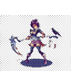
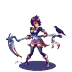
feat(guardianes): La Herencia sprite PNG recién eliminado + animación walk/attack
- Nuevo sprite oficial de La Herencia: fondo eliminado por keying
  negro RGB(0,0,0) de removebg → PNG transparente para Phaser.
- Frames walk_0/1/2 y atk_0/1 extraídos por transformación afín
  (scythe se inclina/se eleva durante el tajo).
- Integrado en Phaser: load/image + anims create, walk loop and
  attack latch 260ms (inactivo cuando termina).

diff --git a/frontend/inkaquest-web/src/app/features/guardianes/combate-scene.ts b/frontend/inkaquest-web/src/app/features/guardianes/combate-scene.ts
@@ -184,6 +184,8 @@ export class CombateScene extends Phaser.Scene {
       this.load.image('sasuke_atk_' + i, `assets/guardianes/walk/sasuke_atk_${i}.png`);
       this.load.image('natalia_walk_' + i, `assets/guardianes/walk/natalia_walk_${i}.png`);
       this.load.image('natalia_atk_' + i, `assets/guardianes/walk/natalia_atk_${i}.png`);
+      this.load.image('scythe_walk_' + i, `assets/guardianes/walk/scythe_walk_${i}.png`);
+      this.load.image('scythe_atk_' + i, `assets/guardianes/walk/scythe_atk_${i}.png`);
     }
   }
 
@@ -253,6 +255,22 @@ export class CombateScene extends Phaser.Scene {
       anims.create({
         key: 'natalia_atk',
         frames: [0, 1].map((i) => ({ key: 'natalia_atk_' + i })),
+        frameRate: 10,
+        repeat: 0,
+      });
+    }
+    if (this.textures.exists('scythe_walk_0') && !anims.exists('scythe_walk')) {
+      anims.create({
+        key: 'scythe_walk',
+        frames: [0, 1, 2].map((i) => ({ key: 'scythe_walk_' + i })),
+        frameRate: 8,
+        repeat: -1,
+      });
+    }
+    if (this.textures.exists('scythe_atk_0') && !anims.exists('scythe_atk')) {
+      anims.create({
+        key: 'scythe_atk',
+        frames: [0, 1].map((i) => ({ key: 'scythe_atk_' + i })),
         frameRate: 10,
         repeat: 0,
       });
@@ -650,6 +668,7 @@ export class CombateScene extends Phaser.Scene {
     const esRambo = this.guardian?.id === 'rambo';
     const esSasuke = this.guardian?.id === 'sasuke';
     const esNatalia = this.guardian?.id === 'natalia';
+    const esScythe = this.guardian?.id === 'scythe';
     if (moving && playerSprite.anims) {
       if (esSasuke && ahora >= this.sasukeAttackUntil) {
         playerSprite.anims.play('sasuke_walk', true);
@@ -657,7 +676,9 @@ export class CombateScene extends Phaser.Scene {
         playerSprite.anims.play('rambo_walk', true);
       } else if (esNatalia && ahora >= this.sasukeAttackUntil) {
         playerSprite.anims.play('natalia_walk', true);
-      } else if (!esSasuke && !esNatalia) {
+      } else if (esScythe && ahora >= this.sasukeAttackUntil) {
+        playerSprite.anims.play('scythe_walk', true);
+      } else if (!esSasuke && !esNatalia && !esScythe) {
         const pulso = Math.sin(ahora / 140);
         const base = 0.85;
         const ataque = this.attackPulse > 0 ? 1 + Math.sin(this.attackPulse * Math.PI) * 0.22 : 1;
@@ -665,7 +686,7 @@ export class CombateScene extends Phaser.Scene {
         this.player.setRotation(Math.sin(ahora / 200) * 0.035);
       }
     } else if (playerSprite.anims) {
-      if ((esSasuke && ahora >= this.sasukeAttackUntil) || esNatalia || esRambo) {
+      if ((esSasuke && ahora >= this.sasukeAttackUntil) || esNatalia || esScythe || esRambo) {
         playerSprite.anims.stop();
       }
       this.player.setRotation(0);
@@ -710,9 +731,9 @@ export class CombateScene extends Phaser.Scene {
         this.fireTimer = 0;
         this.attackPulse = 1;
         this.spawnSlash();
-        // Sasuke y Natalia: animación de corte activo (no loop) por un instante
-        if ((this.guardian?.id === 'sasuke' || this.guardian?.id === 'natalia') && playerSprite.anims) {
-          const key = this.guardian?.id === 'sasuke' ? 'sasuke_atk' : 'natalia_atk';
+        // Sasuke, Natalia y Scythe: animación de corte activo (no loop) por un instante
+        if ((this.guardian?.id === 'sasuke' || this.guardian?.id === 'natalia' || this.guardian?.id === 'scythe') && playerSprite.anims) {
+          const key = this.guardian?.id === 'sasuke' ? 'sasuke_atk' : this.guardian?.id === 'natalia' ? 'natalia_atk' : 'scythe_atk';
           playerSprite.anims.play(key, true);
           this.sasukeAttackUntil = this.time.now + 260;
         }
